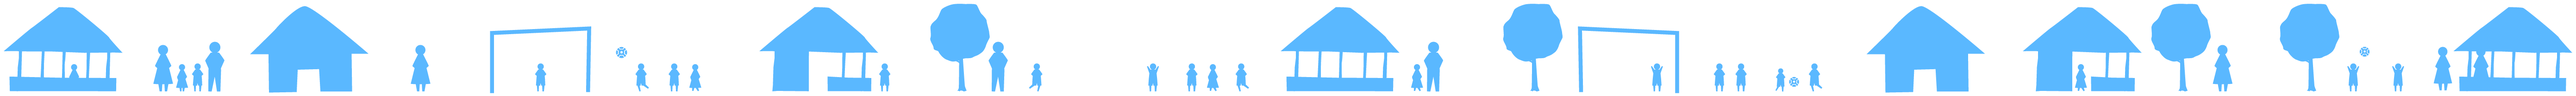
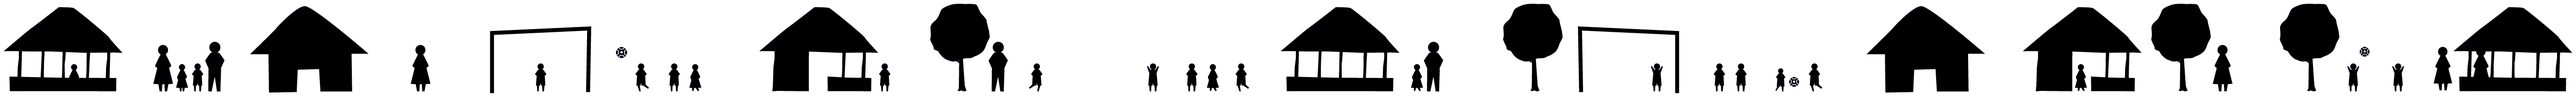
Contact form styles

diff --git a/app/assets/stylesheets/pages.scss b/app/assets/stylesheets/pages.scss
@@ -325,7 +325,7 @@
 #continental {
   height: 700px;
   width: 100%;
-  background-image: image-url('yellow-zambia.png'), image-url('village-scene.png');
+  background-image: image-url('yellow-zambia.png'), image-url('blue-village-scene.png');
   background-color: #434444;
   background-repeat: no-repeat;
   background-position: 100% 150%, 50% 101%;
@@ -637,6 +637,62 @@
       width: 255px;
       display: block;
       margin: auto;
+    }
+  }
+}
+
+/******** Contact Us Page *********/ 
+#contact {
+  background-image: image-url('village-scene.png');
+  background-position: 50% 101%;
+  background-size: contain;
+  background-repeat: no-repeat;
+
+  .hero-image {
+    background-image: image-url('IMG_9067.JPG');
+    background-size: cover;
+    height: 600px;
+    display: flex;
+
+    .hero-text {
+      background-color: $blue;
+      color: #fff;
+      font-family: Lato;
+      height: 300px;
+      clip-path: polygon(0 0, 100% 30%, 100% 100%, 0 100%);
+      flex: 1;
+      align-self: flex-end;
+
+      .hero-text-holder {
+        padding: 25px;
+        margin-top: 50px;
+        margin-left: 50px;
+        width: 50%;
+        line-height: 30px;
+
+        h1 {
+          font-weight: 700;
+        }
+      }
+    }
+  }
+
+  form#contact-form {
+    width: 500px;
+    margin: auto;
+    padding: 50px 0;
+    .form-line {
+      width: 100%;
+      line-height: 50px;
+      label, input, textarea {
+        width: 100%;
+      }
+    }
+    #contact-button {
+      @include donate-button;
+      width: 200px;
+      margin: auto;
+      display: block;
     }
   }
 }
